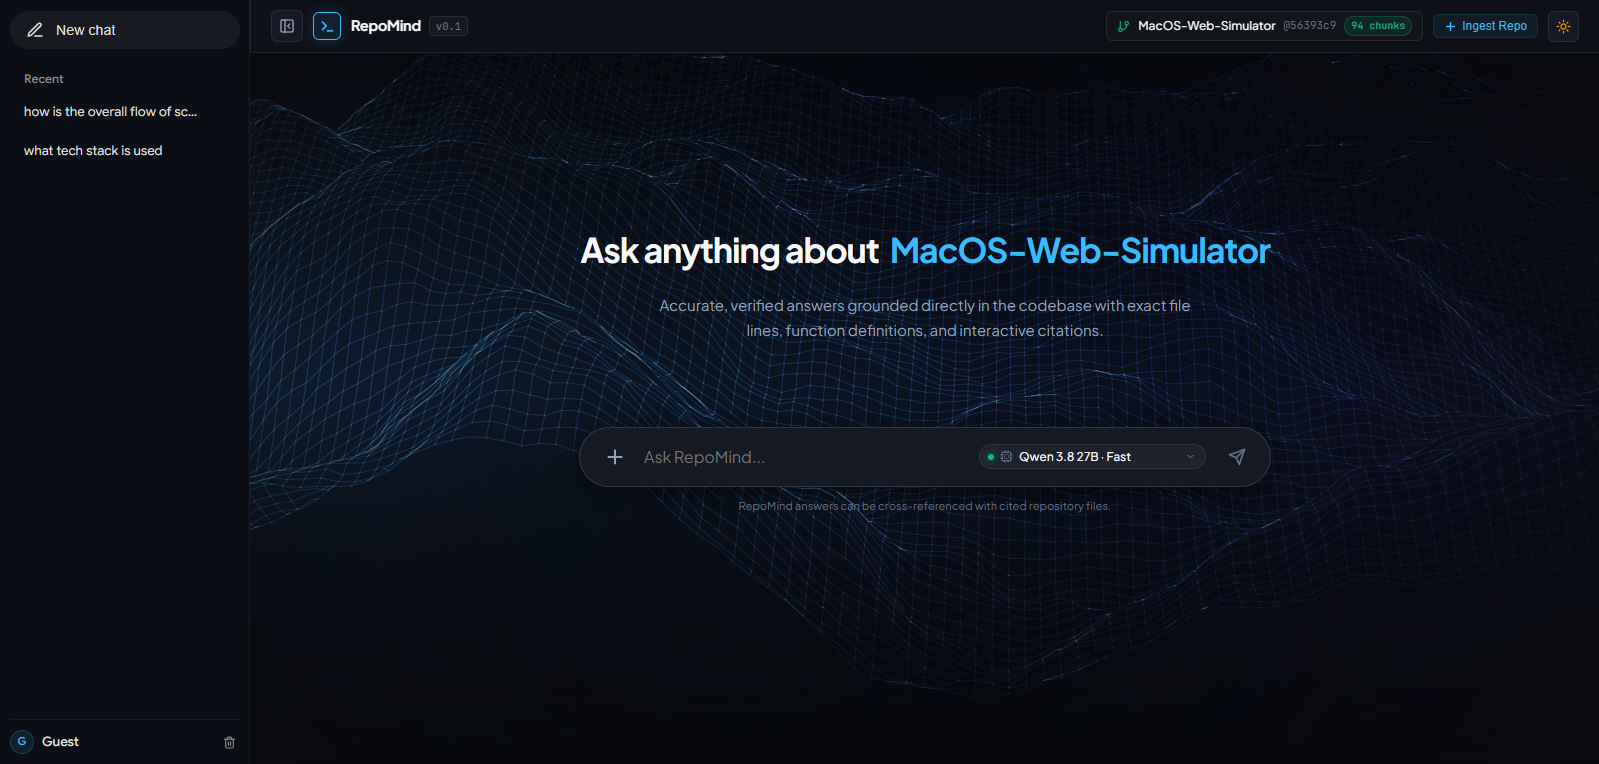
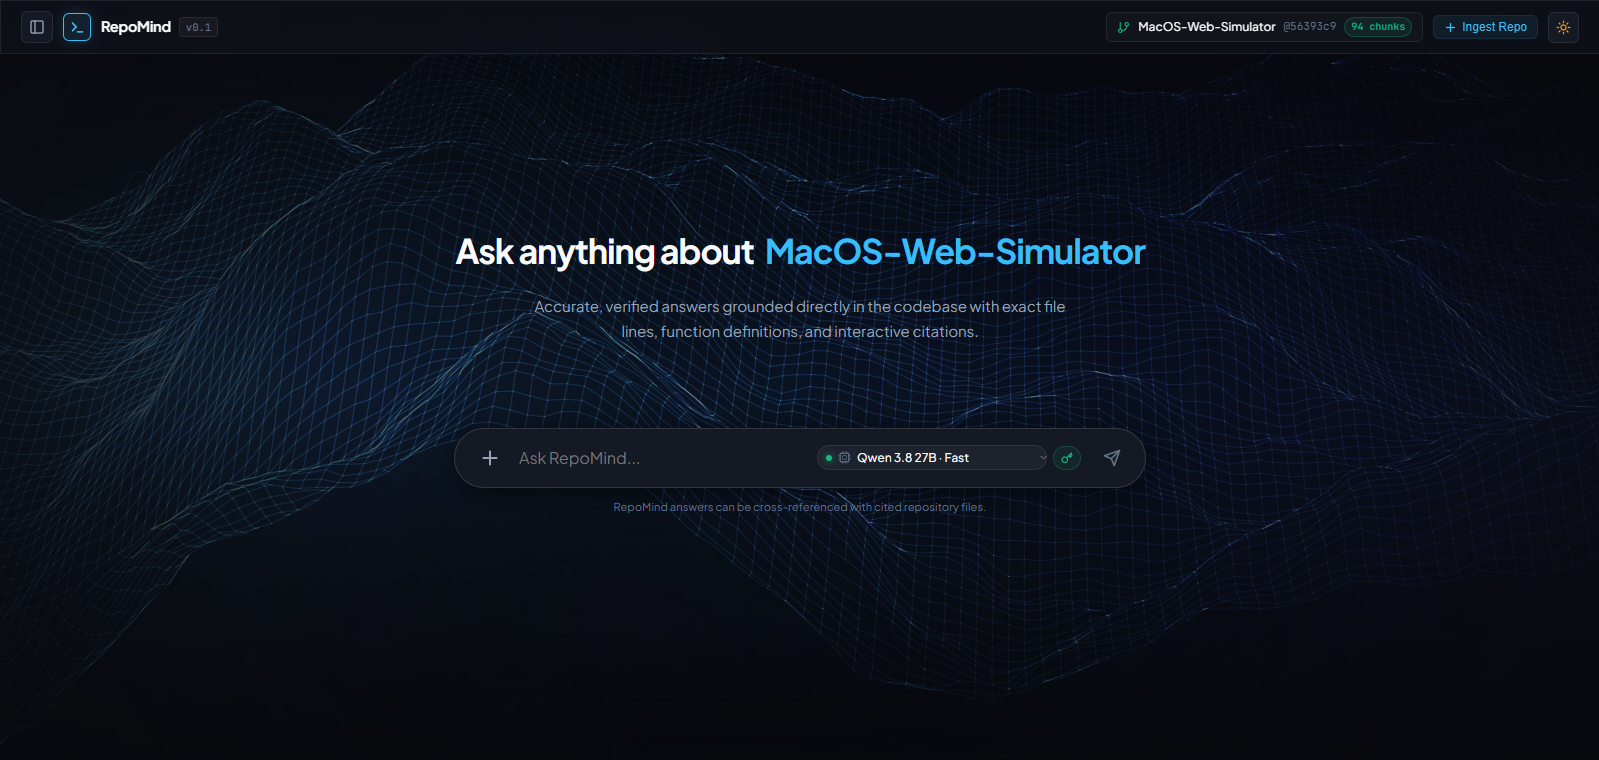
Update README

diff --git a/README.md b/README.md
@@ -1,4 +1,4 @@
-# RepoMind — Agentic RAG Project for Codebases
+# RepoMind  - Agentic RAG for Github Repositories
 
 [![Python 3.12](https://img.shields.io/badge/python-3.12-blue.svg)](https://www.python.org/downloads/)
 [![FastAPI](https://img.shields.io/badge/FastAPI-0.110+-009688.svg)](https://fastapi.tiangolo.com)
